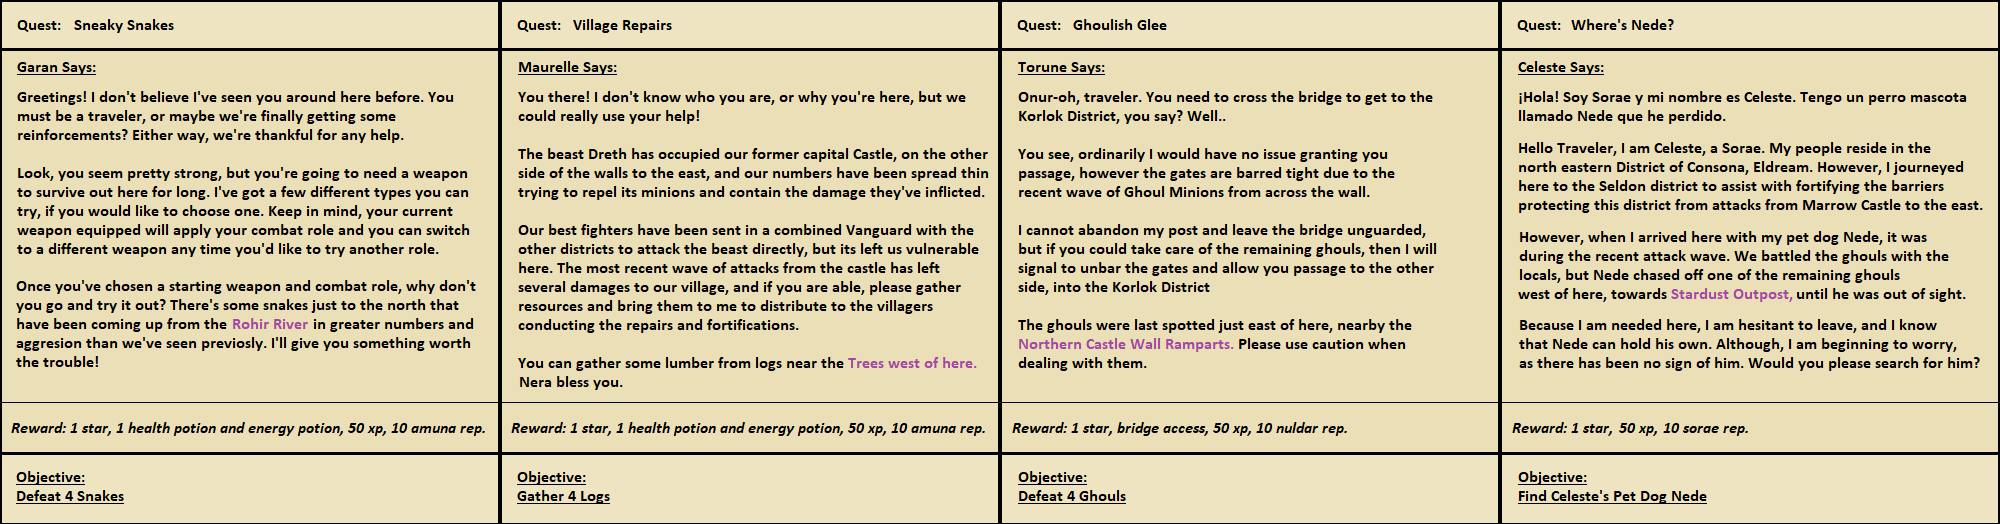
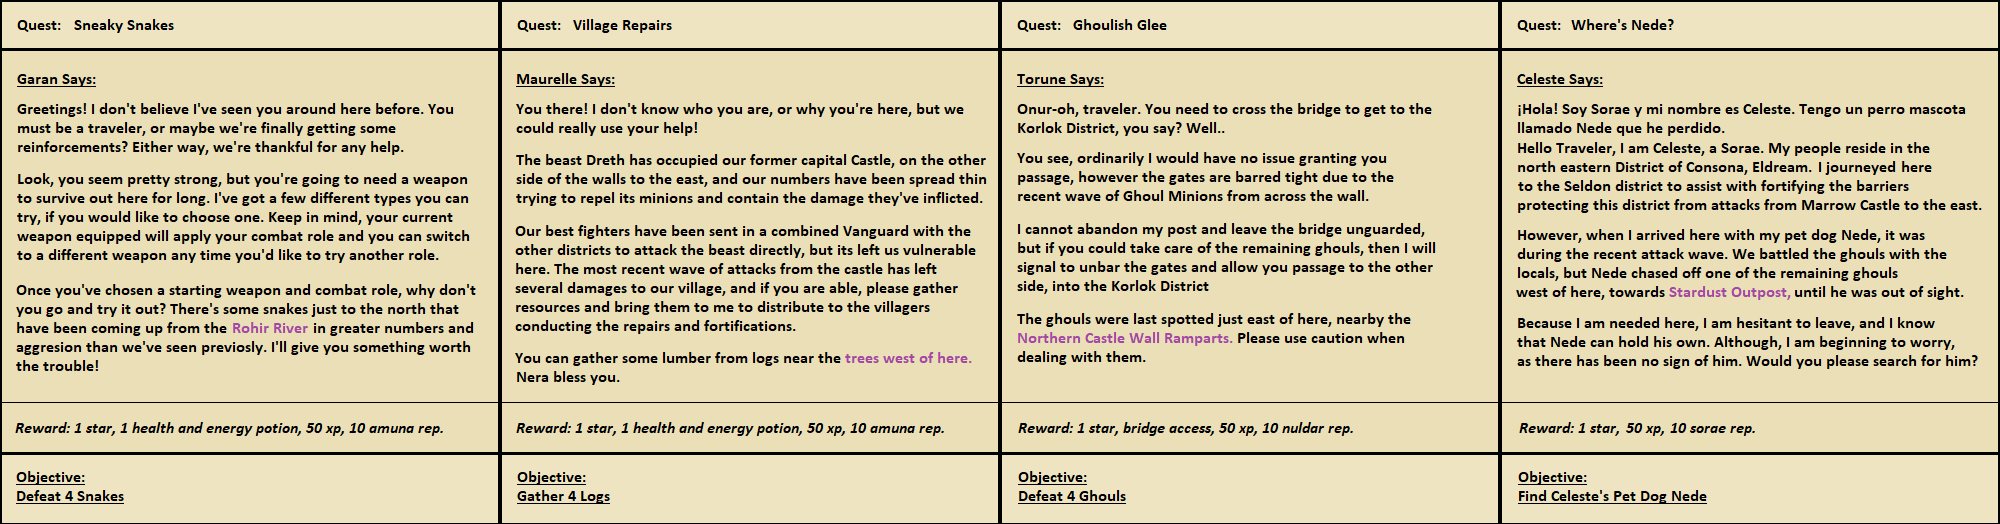
Finished interaction sprites and reformatted the quest windows.

diff --git a/project_eterna.py b/project_eterna.py
@@ -1835,12 +1835,11 @@ xp_98 = xp_sheet.get_image(2440, 171, 305, 19); xp_99 = xp_sheet.get_image(2745,
 xp_100 = xp_sheet.get_image(0, 190, 305, 19)
 
 # creating objects from defined classes --------------------------------------------------------------------------------
-# display notifications to user
+# display notifications
 knowledge_academia = Notification("knowledge academia notification", False, 510, 365, knowledge_popup)
 rest_recover = Notification("rest recover", False, 510, 365, health_popup)
 shop_gear = Notification("shop gear", False, 510, 365, gear_popup)
 save_check = Notification("save check", False, 510, 365, save_popup)
-# window that notifies player if a save file isn't found on start screen
 save_absent = Notification("save absent", False, 640, 574, save_not_found)
 # inventory items
 health_potion = Item("health potion", "potion", 200, 200, health_pot_img)
@@ -1854,12 +1853,12 @@ basic_bow = Item("basic bow", "scout", 200, 200, basic_bow_img)
 basic_robes = Item("basic robes", "mage", 200, 200, basic_robes_img)
 basic_armor = Item("basic armor", "fighter", 200, 200, basic_armor_img)
 basic_tunic = Item("basic tunic", "scout", 200, 200, basic_tunic_img)
-# character selection screen display characters
+# character selection
 amuna_character = UiElement("amuna character", 640, 360, amuna_character_img)
 nuldar_character = UiElement("nuldar character", 640, 360, nuldar_character_img)
 sorae_character = UiElement("sorae character", 640, 360, sorae_character_img)
 
-# default player character
+# default player
 player = PlayerAmuna("stan", "amuna", "",  # name, race, role
                      [health_potion, energy_potion],  # inventory
                      {"weapon": "", "chest": ""},  # equipment ('type', 'name')
@@ -2031,6 +2030,7 @@ enemy_hp_bars = pygame.sprite.Group()
 most_sprites = pygame.sprite.Group()
 non_sprite_sheets = pygame.sprite.Group()
 snakes = pygame.sprite.Group()
+
 snakes.add(snake_1, snake_2, snake_3, snake_4)
 ghouls = pygame.sprite.Group()
 ghouls.add(ghoul_low_1, ghoul_low_2, ghoul_low_3, ghoul_low_4)
